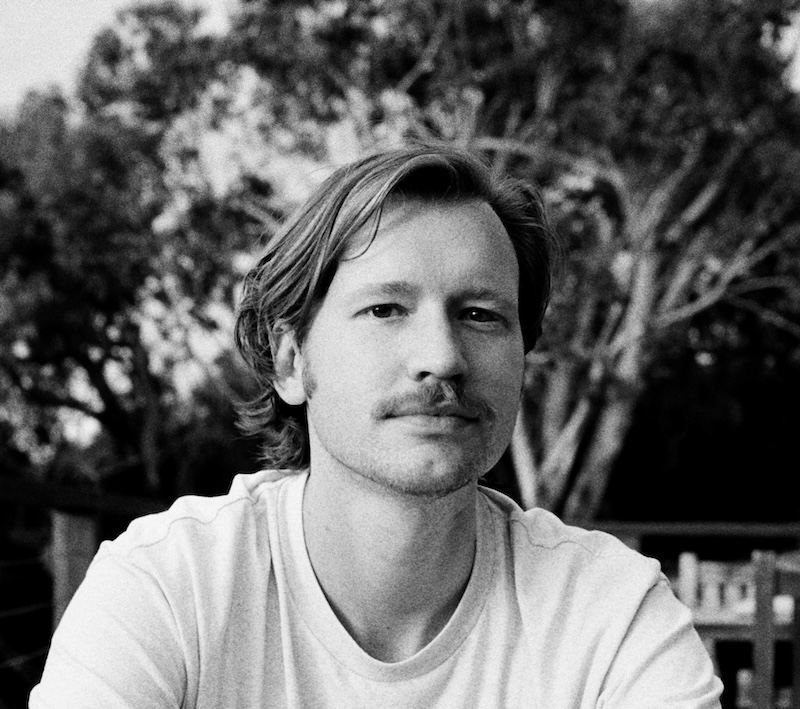
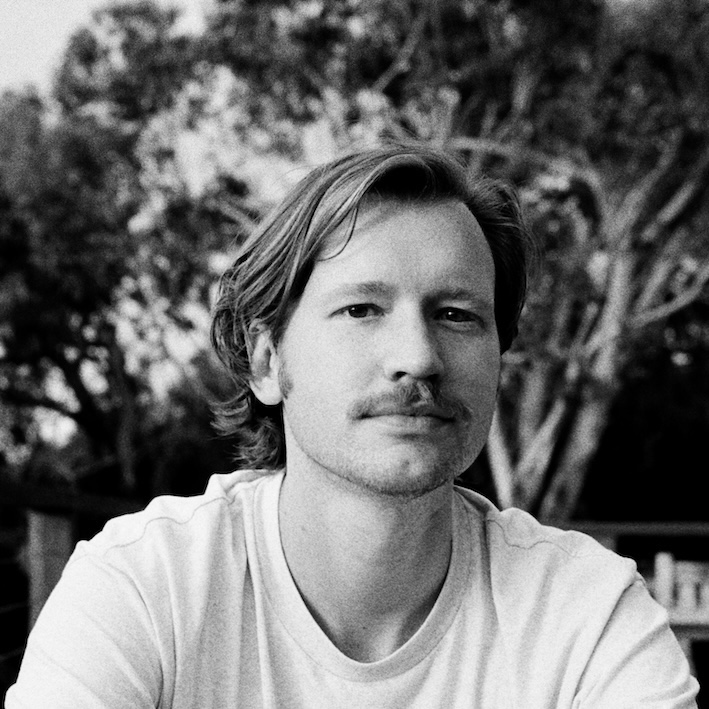
good update well done

diff --git a/components/Header.js b/components/Header.js
@@ -1,9 +1,12 @@
 import Link from 'next/link';
+import Image from 'next/image';
 
 export default function Header({ name }) {
   return (
     <header className="pt-20 pb-12">
-      <div className="w-12 h-12 rounded-full block mx-auto mb-4 bg-gradient-conic from-gradient-3 to-gradient-4" />
+      <div className="w-200 h-200 rounded-full block mx-auto overflow-hidden">
+        <Image src="/79850018.JPG" alt="me" width={250} height={250} />
+      </div>
       <p className="text-2xl dark:text-white text-center">
         <Link href="/">
           {name}
